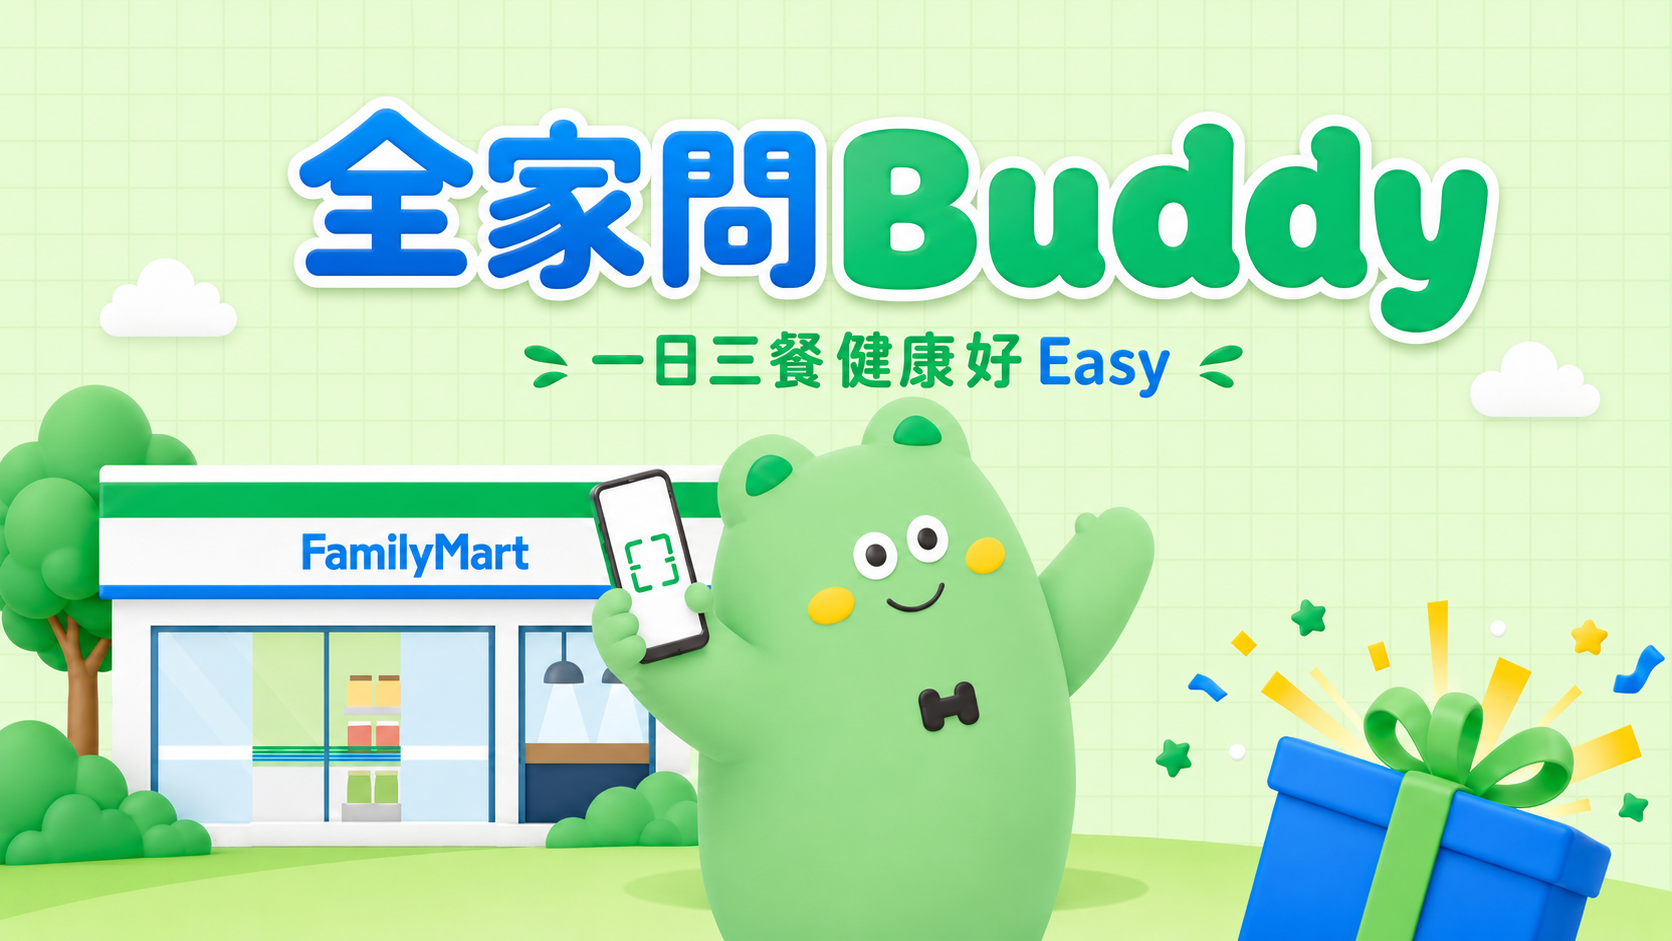
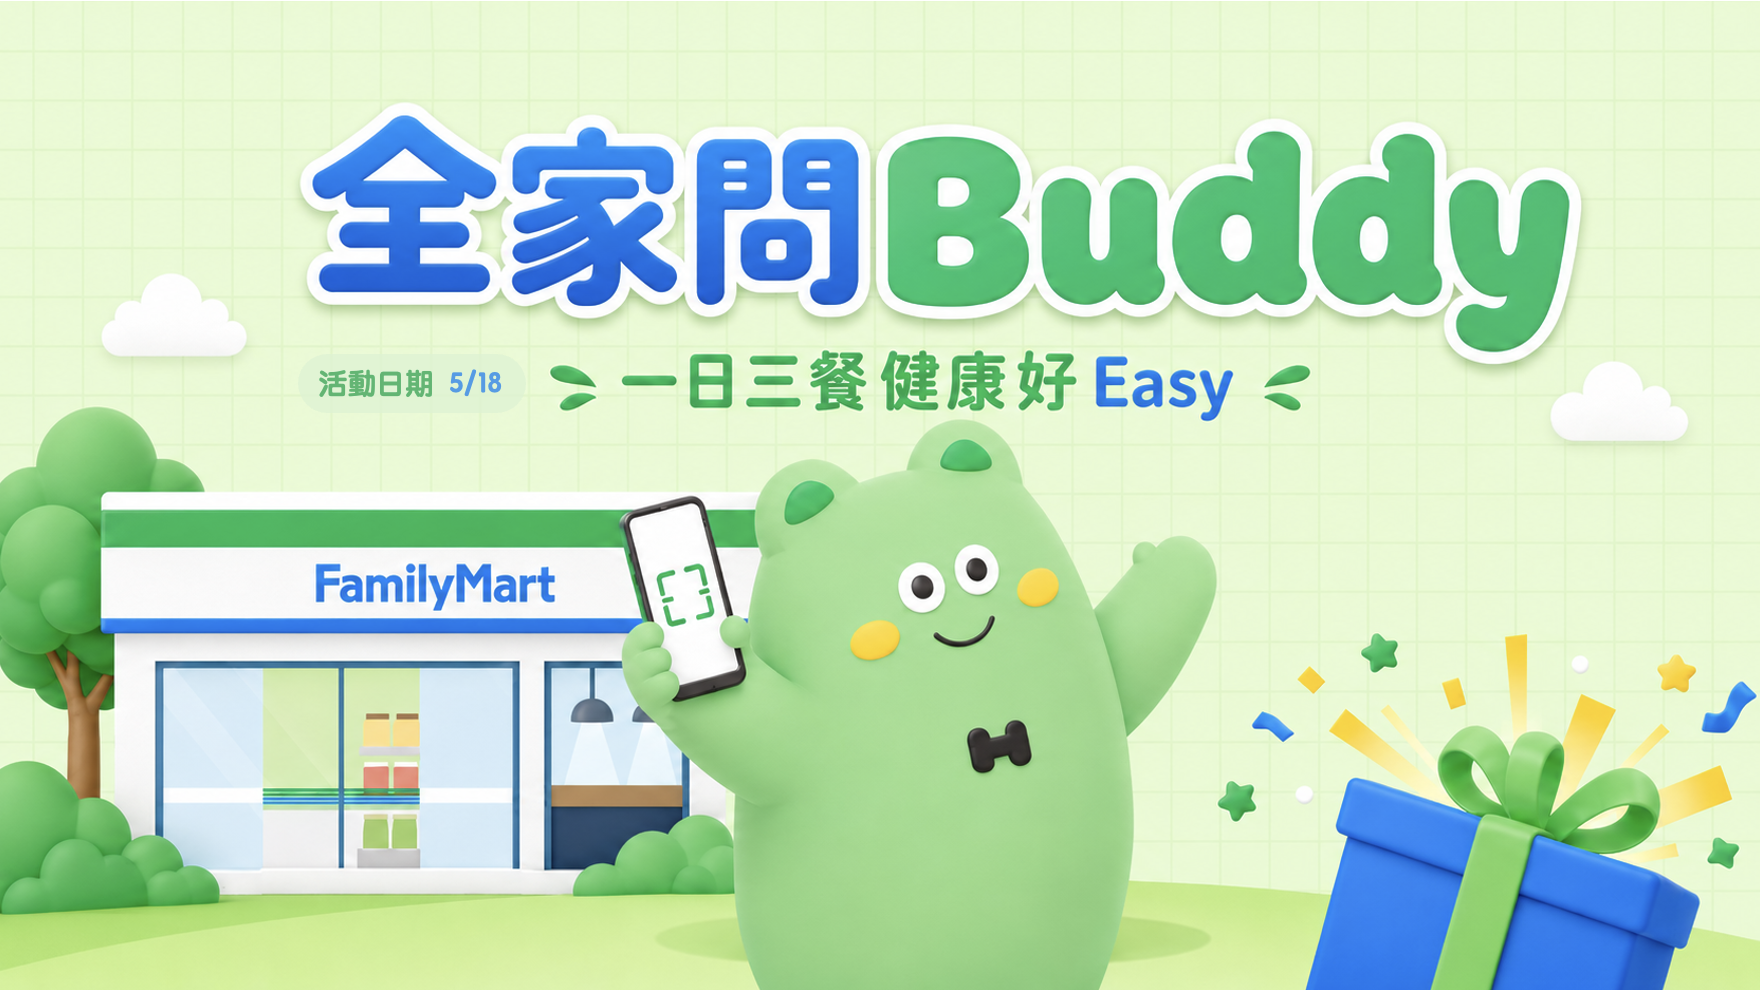
更新圖檔 ＆ 活動日期

diff --git a/index.html b/index.html
@@ -467,7 +467,7 @@ a[role="button"] {
             <div class="mb-6 border-b border-blue-200/80 pb-6">
               <h3 class="text-xl font-semibold mb-2 text-dark">重要時程</h3>
               <ul class="list-disc pl-6 text-dark/80 space-y-1 marker:text-dark" role="list">
-                <li>限時活動：<strong class="font-bold text-primary font-mono whitespace-nowrap"><time datetime="2026-05-19">2026/5/19 00:00–23:59</time></strong></li>
+                <li>限時活動：<strong class="font-bold text-primary font-mono whitespace-nowrap"><time datetime="2026-05-18">2026/5/18 00:00–23:59</time></strong></li>
                 <li>贈獎發送：<strong class="font-bold text-primary font-mono whitespace-nowrap"><time datetime="2026-05-29">2026/5/29</time></strong>&nbsp;<span class="whitespace-nowrap">（LINE OA 統一推播發送）</span></li>
               </ul>
             </div>